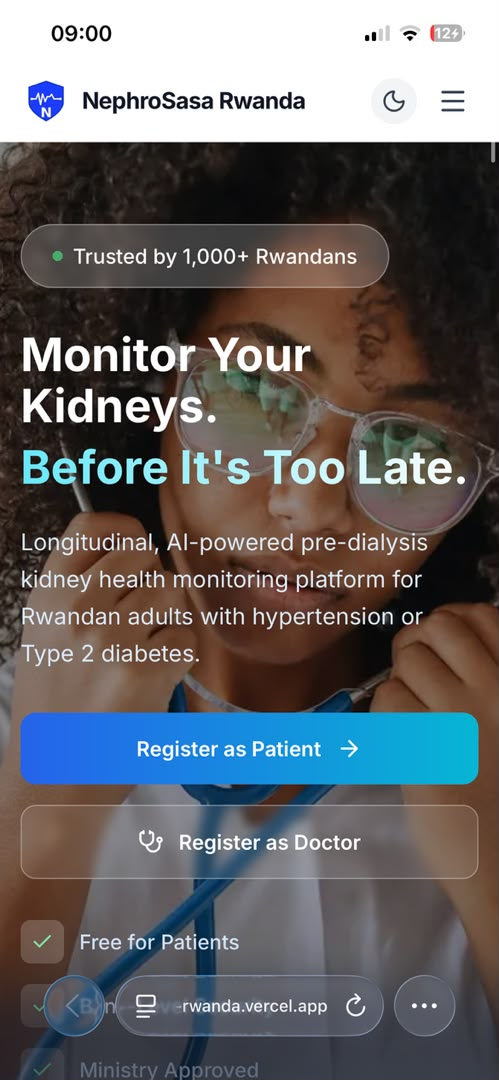
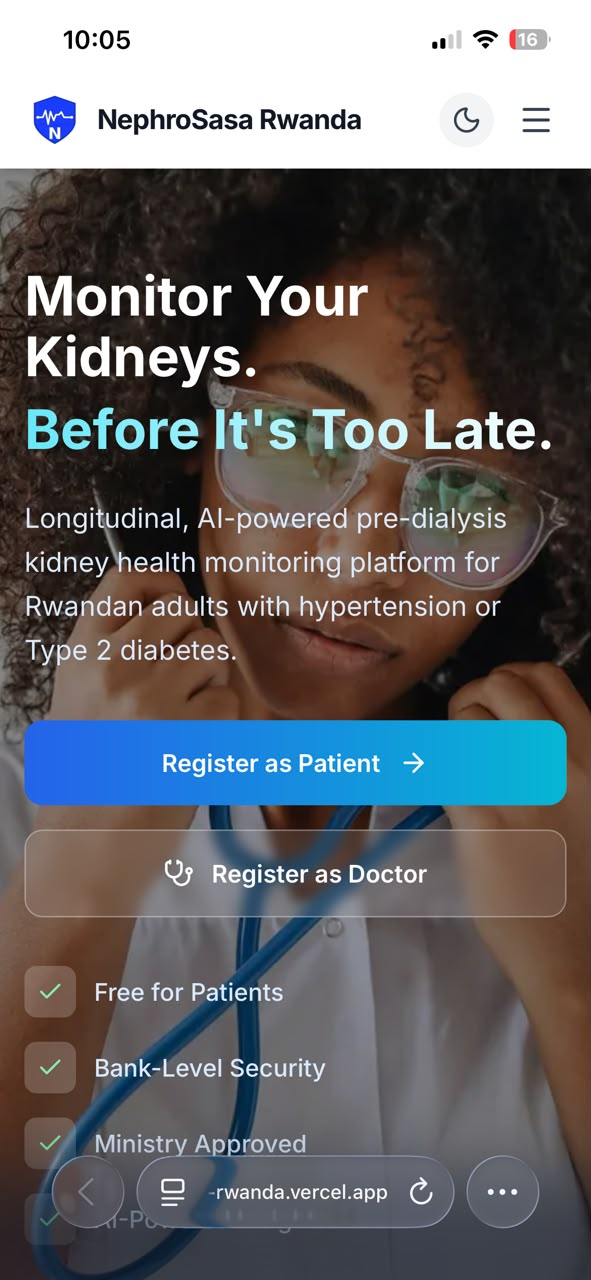
Update mobile homepage images for swiftbill and nephrosasa

diff --git a/app/projects/swiftbill/page.tsx b/app/projects/swiftbill/page.tsx
@@ -14,7 +14,7 @@ const desktopImages = [
 ];
 
 const mobileImages = [
-  { src: "/images/projects/swiftbill-mobile-hero.jpeg", label: "Mobile Landing Page" },
+  { src: "/images/projects/swiftbill-mobile-homepage.jpeg", label: "Mobile Landing Page" },
   { src: "/images/projects/swiftbill-mobile-dashboard.jpeg", label: "Mobile Dashboard" },
   { src: "/images/projects/swiftbill-mobile_invoice_builder.jpeg", label: "Mobile Invoice Builder" },
 ];
